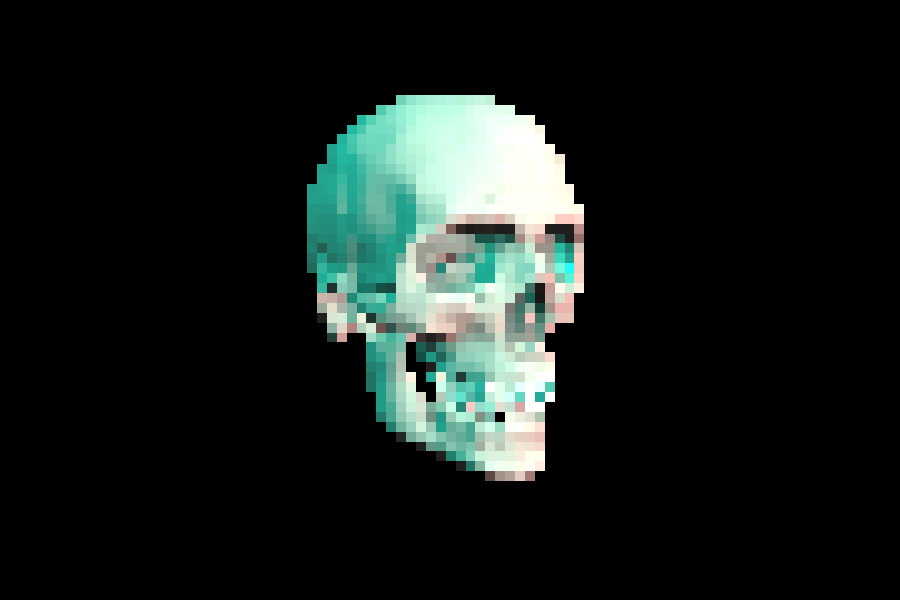
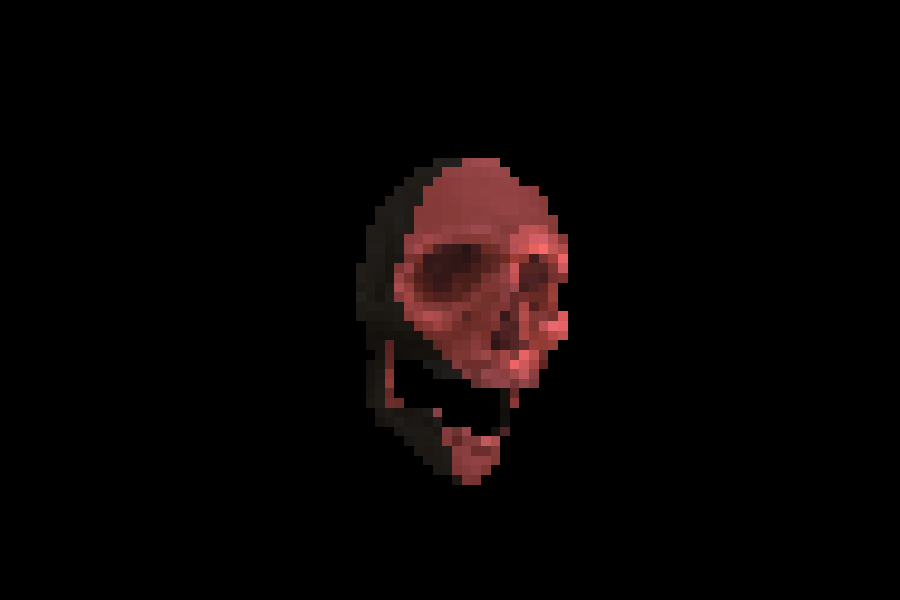
Got very basic cel shading working

Changed region(s): [[0.3422, 0.15, 0.6533, 0.81]]

diff --git a/scene.cpp b/scene.cpp
@@ -52,10 +52,18 @@ Scene *InitScene()
 
     Light *lights = scene->lights;
 
-    lights[0] = CreateLight(LIGHT_POINT, (Vector3){10, 2, 10}, Vector3Zero(), WHITE, *(scene->lightingShader));
+    lights[0] = CreateLight(LIGHT_DIRECTIONAL, (Vector3){25, 0, 25}, Vector3Zero(), RED, *(scene->lightingShader));
     lights[1] = CreateLight(LIGHT_POINT, (Vector3){10, 2, 10}, Vector3Zero(), RED, *(scene->lightingShader));
     lights[2] = CreateLight(LIGHT_POINT, (Vector3){0, 7, 10}, Vector3Zero(), GREEN, *(scene->lightingShader));
     lights[3] = CreateLight(LIGHT_POINT, (Vector3){0, 7, 10}, Vector3Zero(), BLUE, *(scene->lightingShader));
+
+    lights[1].enabled = false;
+    lights[2].enabled = false;
+    lights[3].enabled = false;
+
+    UpdateLightValues(*(scene->lightingShader), lights[1]);
+    UpdateLightValues(*(scene->lightingShader), lights[2]);
+    UpdateLightValues(*(scene->lightingShader), lights[3]);
 
     return scene;
 }

diff --git a/main.cpp b/main.cpp
@@ -48,6 +48,18 @@ int main(void)
             ClearDroppedFiles();
         }
 
+        if (IsKeyDown(KEY_D) && scene->model != NULL)
+        {
+            rotation += 0.01f;
+            scene->model->transform = MatrixRotateXYZ((Vector3){0.0f, 0.0f, rotation});
+        }
+
+        if (IsKeyDown(KEY_A) && scene->model != NULL)
+        {
+            rotation -= 0.01f;
+            scene->model->transform = MatrixRotateXYZ((Vector3){0.0f, 0.0f, rotation});
+        }
+
         UpdateScene(scene);
         UpdatePixelizer(pixelizer, scene);
 

diff --git a/pixelizer.cpp b/pixelizer.cpp
@@ -127,6 +127,16 @@ RenderTexture2D GenerateTexture(Pixelizer *pixelizer, Scene *scene)
         }
     }
 
+    for (int i = 0; i < MAX_LIGHTS; i++)
+    {
+        Light light = scene->lights[i];
+        if (light.enabled)
+        {
+            DrawSphere(light.position, 5.0f, light.color);
+            // DrawPoint3D(light.position, light.color);
+        }
+    }
+
     // DrawBoundingBox((BoundingBox){largestMin, largestMax}, RED);
 
     EndMode3D();
